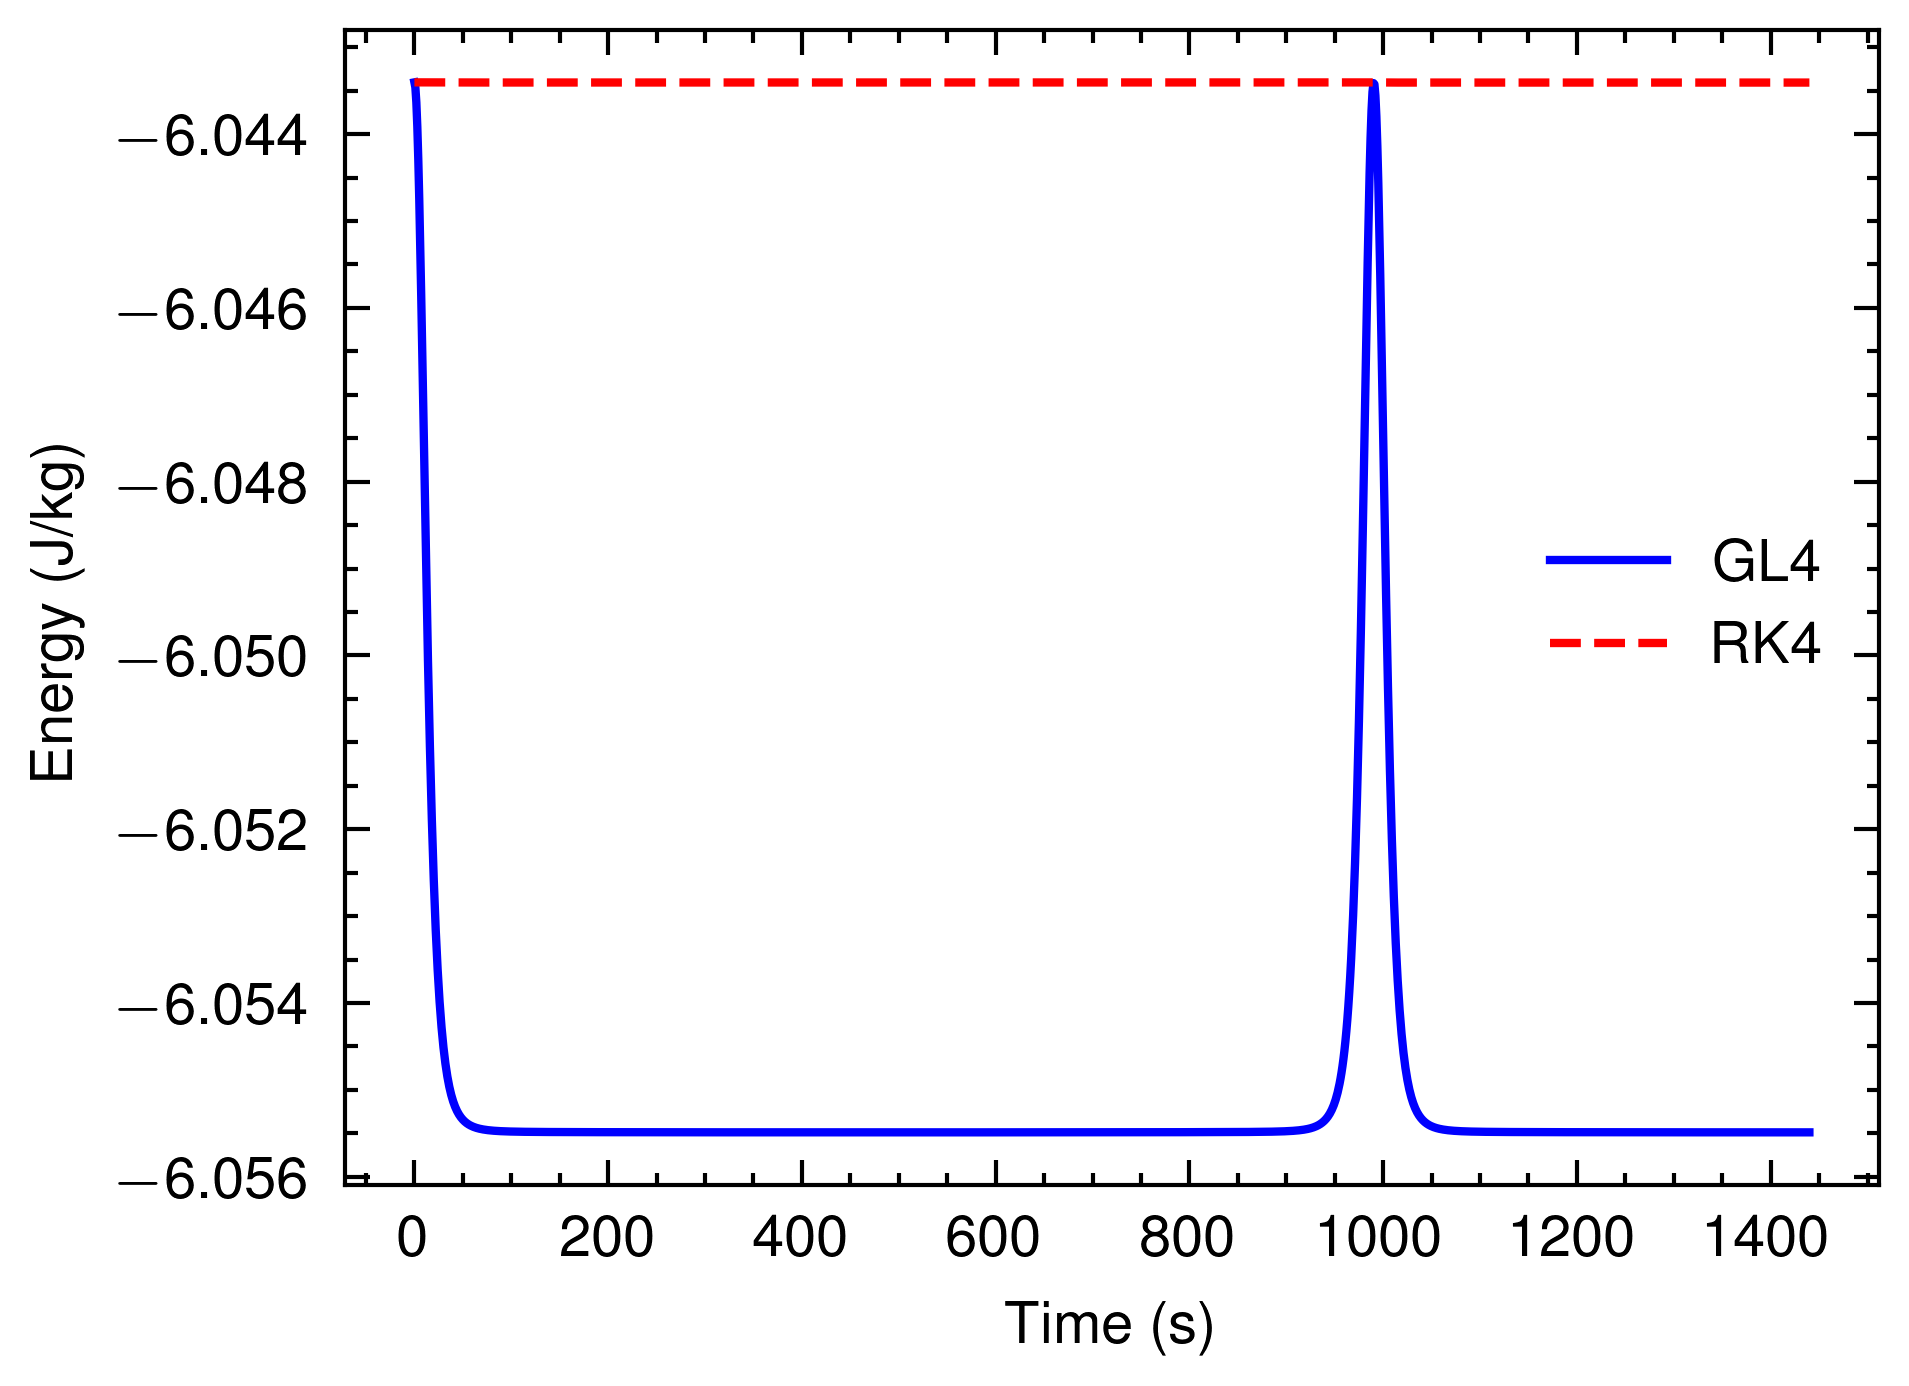
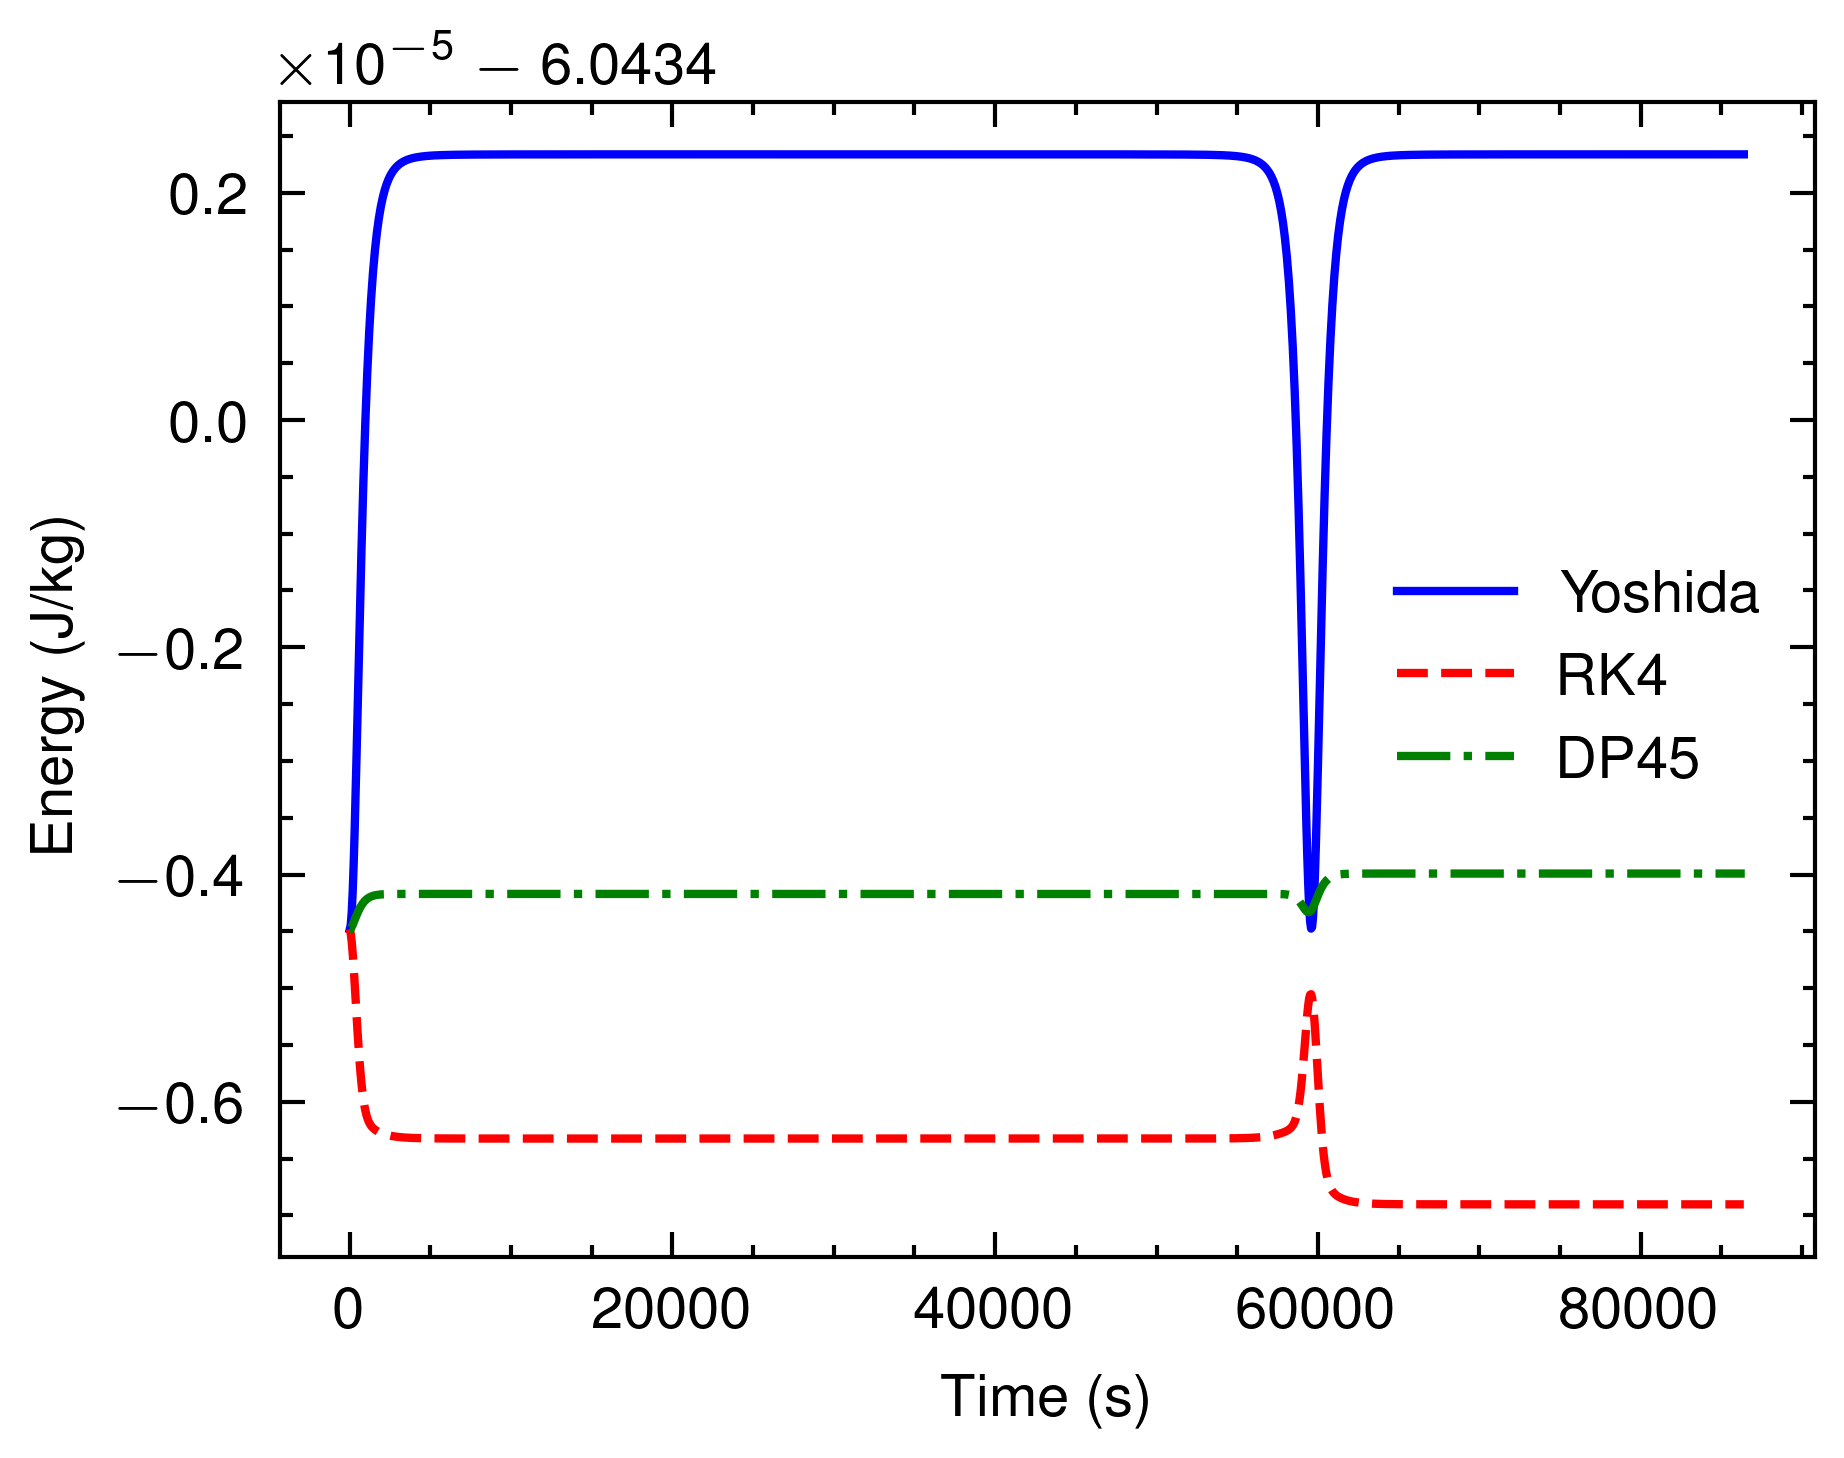
Yoshida

Changed region(s): [[0.0, 0.0, 0.9892, 0.9928]]

diff --git a/src/main.rs b/src/main.rs
@@ -27,52 +27,75 @@ fn main() -> Result<(), Box<dyn std::error::Error>> {
     let dt = 60.0;
 
     let problem = KeplerProblem;
-    let gl4 = GL4 {
-        solver: ImplicitSolver::FixedPoint,
-        tol: 1e-10,
-        max_step_iter: 1000,
-    };
+    let yoshida_solver = YoshidaSolver::new(problem);
     let rk4 = RK4;
+    let dp45 = DP45 {
+        max_step_iter: 1000,
+        max_step_size: 2.0 * dt,
+        min_step_size: 1e-3 * dt,
+        safety_factor: 0.9,
+        tol: 1e-3,
+    };
 
-    let gl4_solver = BasicODESolver::new(gl4);
     let rk4_solver = BasicODESolver::new(rk4);
+    let dp45_solver = BasicODESolver::new(dp45);
 
     let y0 = Vec::from(initial_state);
     y0.print();
-    let (t, y_gl4) = gl4_solver.solve(
+    let (t_yoshida, y_yoshida) = yoshida_solver.solve(
+        (t0, tf),
+        dt,
+        &y0,
+    )?;
+    let (t_rk4, y_rk4) = rk4_solver.solve(
         &problem,
         (t0, tf),
         dt,
         &y0,
     )?;
-    let (_, y_rk4) = rk4_solver.solve(
+    let (t_dp45, y_dp45) = dp45_solver.solve(
         &problem,
         (t0, tf),
         dt,
         &y0,
     )?;
 
-    let y_gl4 = py_matrix(y_gl4);
+    let y_yoshida = py_matrix(y_yoshida);
     let y_rk4 = py_matrix(y_rk4);
+    let y_dp45 = py_matrix(y_dp45);
 
     let mut df = DataFrame::new(vec![]);
-    df.push("t", Series::new(t));
-    df.push("x_gl4", Series::new(y_gl4.col(0)));
-    df.push("y_gl4", Series::new(y_gl4.col(1)));
-    df.push("z_gl4", Series::new(y_gl4.col(2)));
-    df.push("vx_gl4", Series::new(y_gl4.col(3)));
-    df.push("vy_gl4", Series::new(y_gl4.col(4)));
-    df.push("vz_gl4", Series::new(y_gl4.col(5)));
+    df.push("t_yoshida", Series::new(t_yoshida));
+    df.push("x_yoshida", Series::new(y_yoshida.col(0)));
+    df.push("y_yoshida", Series::new(y_yoshida.col(1)));
+    df.push("z_yoshida", Series::new(y_yoshida.col(2)));
+    df.push("vx_yoshida", Series::new(y_yoshida.col(3)));
+    df.push("vy_yoshida", Series::new(y_yoshida.col(4)));
+    df.push("vz_yoshida", Series::new(y_yoshida.col(5)));
+    df.print();
+    df.write_parquet("data_yoshida.parquet", CompressionOptions::Uncompressed)?;
+
+    let mut df = DataFrame::new(vec![]);
+    df.push("t_rk4", Series::new(t_rk4));
     df.push("x_rk4", Series::new(y_rk4.col(0)));
     df.push("y_rk4", Series::new(y_rk4.col(1)));
     df.push("z_rk4", Series::new(y_rk4.col(2)));
     df.push("vx_rk4", Series::new(y_rk4.col(3)));
     df.push("vy_rk4", Series::new(y_rk4.col(4)));
     df.push("vz_rk4", Series::new(y_rk4.col(5)));
-
     df.print();
+    df.write_parquet("data_rk4.parquet", CompressionOptions::Uncompressed)?;
 
-    df.write_parquet("data.parquet", CompressionOptions::Uncompressed)?;
+    let mut df = DataFrame::new(vec![]);
+    df.push("t_dp45", Series::new(t_dp45));
+    df.push("x_dp45", Series::new(y_dp45.col(0)));
+    df.push("y_dp45", Series::new(y_dp45.col(1)));
+    df.push("z_dp45", Series::new(y_dp45.col(2)));
+    df.push("vx_dp45", Series::new(y_dp45.col(3)));
+    df.push("vy_dp45", Series::new(y_dp45.col(4)));
+    df.push("vz_dp45", Series::new(y_dp45.col(5)));
+    df.print();
+    df.write_parquet("data_dp45.parquet", CompressionOptions::Uncompressed)?;
 
     Ok(())
 }
@@ -270,23 +293,13 @@ pub fn perifocal_to_eci_matrix(orbit: &Orbit) -> Matrix {
     R3_raan * R1_i * R3_w
 }
 
+#[allow(unused)]
 pub struct YoshidaSolver {
     problem: KeplerProblem,
 }
 
 const W0: f64 = -1.7024143839193153;
 const W1: f64 = 1.3512071919596578;
-
-const YOSHIDA_COEFF: [f64; 8] = [
-    W1 / 2f64,
-    (W0 + W1) / 2f64,
-    (W0 + W1) / 2f64,
-    W1 / 2f64,
-    W1,
-    W0,
-    W1,
-    0f64,
-];
 
 impl YoshidaSolver {
     pub fn new(problem: KeplerProblem) -> Self {
@@ -300,8 +313,6 @@ impl YoshidaSolver {
         dt: f64,
         initial_condition: &[f64],
     ) -> anyhow::Result<(Vec<f64>, Vec<Vec<f64>>)> {
-        let kepler = &self.problem;
-
         let t_vec = linspace(
             t_span.0,
             t_span.1,
@@ -309,29 +320,58 @@ impl YoshidaSolver {
         );
         let state_dim = initial_condition.len();
         let pos_dim = state_dim / 2;
-        let vel_dim = pos_dim;
         let pos_init = &initial_condition[..pos_dim];
         let vel_init = &initial_condition[pos_dim..];
+
         let mut state_vec = vec![vec![0f64; state_dim]; t_vec.len()];
-        let mut q_vec = vec![vec![0f64; pos_dim]; t_vec.len()];
-        let mut p_vec = vec![vec![0f64; vel_dim]; t_vec.len()];
         state_vec[0] = initial_condition.to_vec();
-        q_vec[0] = pos_init.to_vec();
-        p_vec[0] = vel_init.to_vec();
+
+        let c: [f64; 4] = [W1 / 2.0, (W0 + W1) / 2.0, (W0 + W1) / 2.0, W1 / 2.0];
+        let d: [f64; 3] = [W1, W0, W1];
+
+        let mut q = pos_init.to_vec();
+        let mut p = vel_init.to_vec();
+
+        let acceleration = |q: &[f64]| -> Vec<f64> {
+            let r = q.iter().map(|&qi| qi * qi).sum::<f64>().sqrt();
+            let r3 = r * r * r;
+            q.iter().map(|&qi| -MU * qi / r3).collect::<Vec<f64>>()
+        };
 
         for i in 1..t_vec.len() {
-            let mut q = q_vec[i - 1].to_vec();
-            let mut p = p_vec[i - 1].to_vec();
-            for j in 0..4 {
-                let deriv = kepler.calc_deriv(&State::from(concat(&q, &p)));
-                for k in 0..pos_dim {
-                    q[k] += YOSHIDA_COEFF[j] * dt * deriv[k];
-                    p[k] += YOSHIDA_COEFF[j + 4] * dt * deriv[k + pos_dim];
-                }
+            // Step 1: Drift with c[0]
+            for k in 0..pos_dim {
+                q[k] += c[0] * dt * p[k];
             }
+            // Step 2: Kick with d[0]
+            let a = acceleration(&q);
+            for k in 0..pos_dim {
+                p[k] += d[0] * dt * a[k];
+            }
+            // Step 3: Drift with c[1]
+            for k in 0..pos_dim {
+                q[k] += c[1] * dt * p[k];
+            }
+            // Step 4: Kick with d[1]
+            let a = acceleration(&q);
+            for k in 0..pos_dim {
+                p[k] += d[1] * dt * a[k];
+            }
+            // Step 5: Drift with c[2]
+            for k in 0..pos_dim {
+                q[k] += c[2] * dt * p[k];
+            }
+            // Step 6: Kick with d[2]
+            let a = acceleration(&q);
+            for k in 0..pos_dim {
+                p[k] += d[2] * dt * a[k];
+            }
+            // Step 7: Drift with c[3]
+            for k in 0..pos_dim {
+                q[k] += c[3] * dt * p[k];
+            }
+
             state_vec[i] = concat(&q, &p);
-            q_vec[i] = q;
-            p_vec[i] = p;
         }
 
         Ok((t_vec, state_vec))

diff --git a/pq_plot.py b/pq_plot.py
@@ -9,17 +9,18 @@ R_EARTH = 6378.137  # Radius of Earth in km
 J2 = 1.08262668e-3  # J2 coefficient of Earth
 
 # Import parquet file
-df = pd.read_parquet('data.parquet')
+df = pd.read_parquet('data_yoshida.parquet')
+t_yoshida = np.array(df['t_yoshida'])[:]
+x_yoshida = np.array(df['x_yoshida'])[:]
+y_yoshida = np.array(df['y_yoshida'])[:]
+z_yoshida = np.array(df['z_yoshida'])[:]
+vx_yoshida = np.array(df['vx_yoshida'])[:]
+vy_yoshida = np.array(df['vy_yoshida'])[:]
+vz_yoshida = np.array(df['vz_yoshida'])[:]
+E_yoshida = 0.5 * (vx_yoshida**2 + vy_yoshida**2 + vz_yoshida**2) - MU / np.sqrt(x_yoshida**2 + y_yoshida**2 + z_yoshida**2)
 
-# Prepare Data to Plot
-x_gl4 = np.array(df['x_gl4'])[:]
-y_gl4 = np.array(df['y_gl4'])[:]
-z_gl4 = np.array(df['z_gl4'])[:]
-vx_gl4 = np.array(df['vx_gl4'])[:]
-vy_gl4 = np.array(df['vy_gl4'])[:]
-vz_gl4 = np.array(df['vz_gl4'])[:]
-E_gl4 = 0.5 * (vx_gl4**2 + vy_gl4**2 + vz_gl4**2) - MU / np.sqrt(x_gl4**2 + y_gl4**2 + z_gl4**2)
-
+df = pd.read_parquet('data_rk4.parquet')
+t_rk4 = df['t_rk4']
 x_rk4 = df['x_rk4']
 y_rk4 = df['y_rk4']
 z_rk4 = df['z_rk4']
@@ -27,6 +28,16 @@ vx_rk4 = df['vx_rk4']
 vy_rk4 = df['vy_rk4']
 vz_rk4 = df['vz_rk4']
 E_rk4 = 0.5 * (vx_rk4**2 + vy_rk4**2 + vz_rk4**2) - MU / np.sqrt(x_rk4**2 + y_rk4**2 + z_rk4**2)
+
+df = pd.read_parquet('data_dp45.parquet')
+t_dp45 = df['t_dp45']
+x_dp45 = df['x_dp45']
+y_dp45 = df['y_dp45']
+z_dp45 = df['z_dp45']
+vx_dp45 = df['vx_dp45']
+vy_dp45 = df['vy_dp45']
+vz_dp45 = df['vz_dp45']
+E_dp45 = 0.5 * (vx_dp45**2 + vy_dp45**2 + vz_dp45**2) - MU / np.sqrt(x_dp45**2 + y_dp45**2 + z_dp45**2)
 
 # Plot params
 pparam = dict(
@@ -40,7 +51,7 @@ pparam = dict(
 #with plt.style.context(["science", "nature"]):
 #    fig = plt.figure(dpi=600)
 #    ax = fig.add_subplot(111, projection='3d')
-#    ax.plot(x_gl4, y_gl4, z_gl4, label='GL4', color='blue')
+#    ax.plot(x_yoshida, y_yoshida, z_yoshida, label='GL4', color='blue')
 #    ax.plot(x_rk4, y_rk4, z_rk4, label='RK4', color='red', linestyle='--')
 #    ax.autoscale(tight=True)
 #    ax.set(**pparam)
@@ -51,8 +62,9 @@ pparam = dict(
 # Plot Energy
 with plt.style.context(["science", "nature"]):
     fig, ax = plt.subplots()
-    ax.plot(E_gl4, label='GL4', color='blue')
-    ax.plot(E_rk4, label='RK4', color='red', linestyle='--')
+    ax.plot(t_yoshida, E_yoshida, label='Yoshida', color='blue')
+    ax.plot(t_rk4, E_rk4, label='RK4', color='red', linestyle='--')
+    ax.plot(t_dp45, E_dp45, label='DP45', color='green', linestyle='-.')
     ax.set_xlabel('Time (s)')
     ax.set_ylabel('Energy (J/kg)')
     ax.legend()
